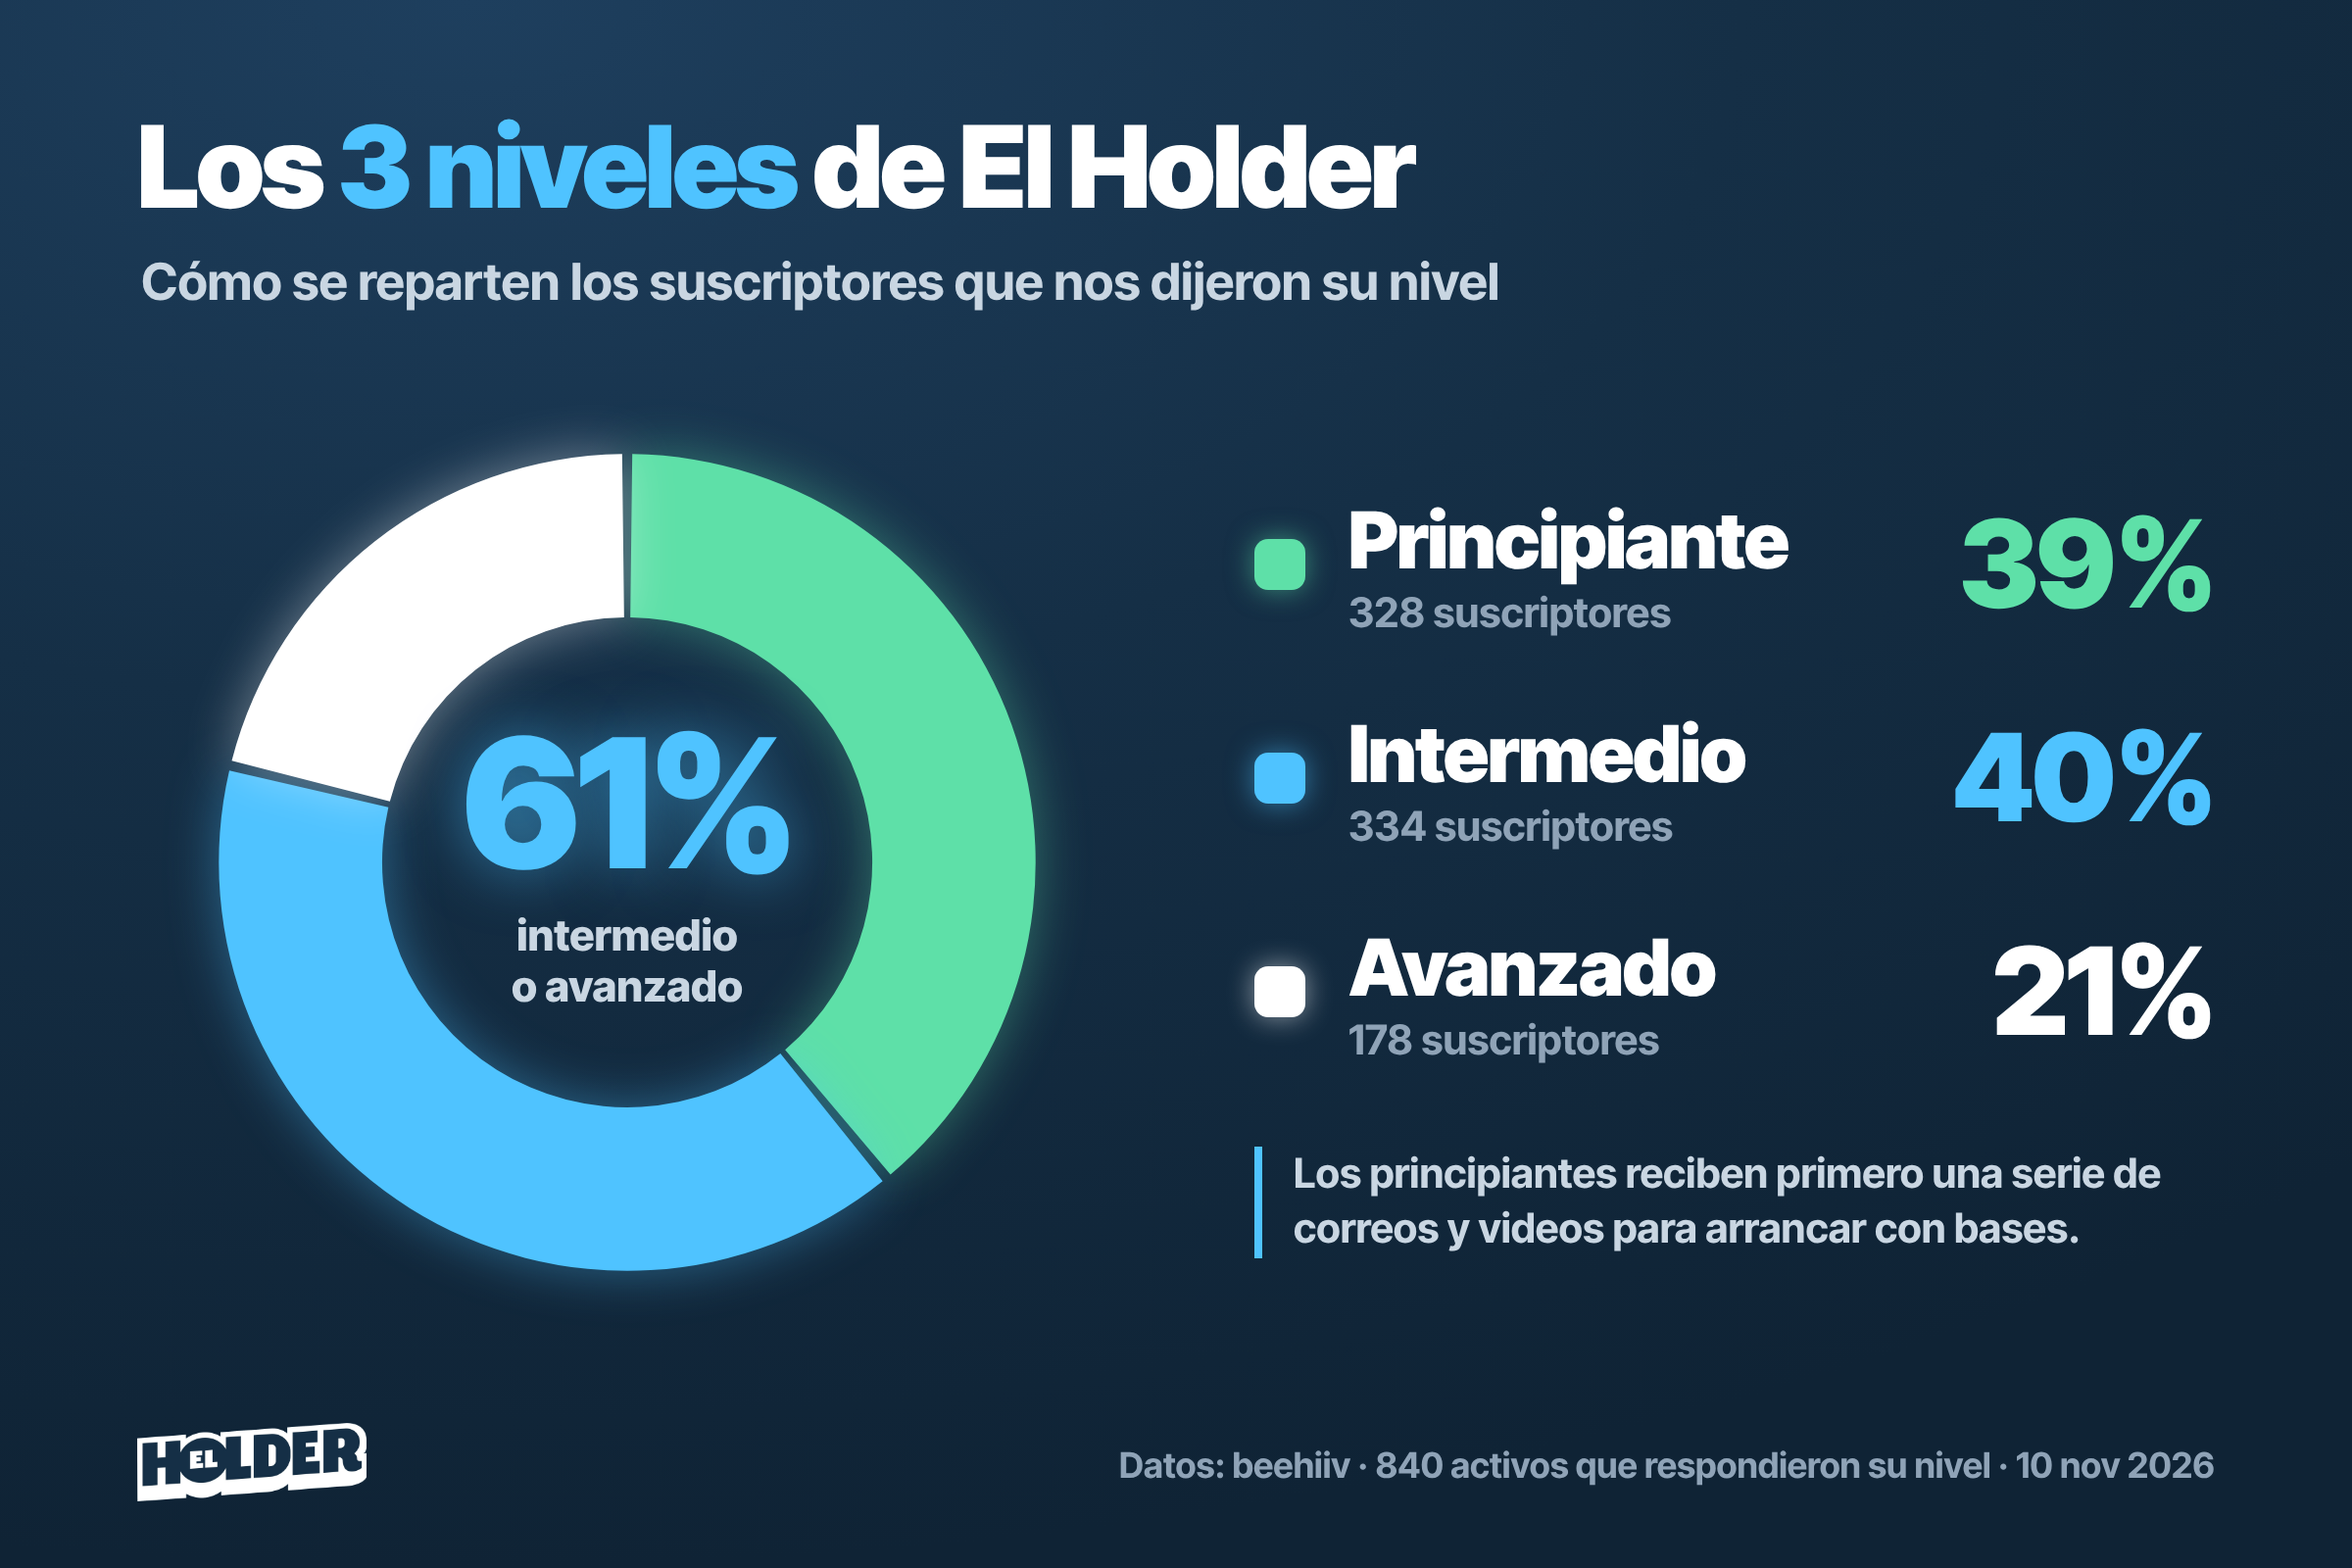
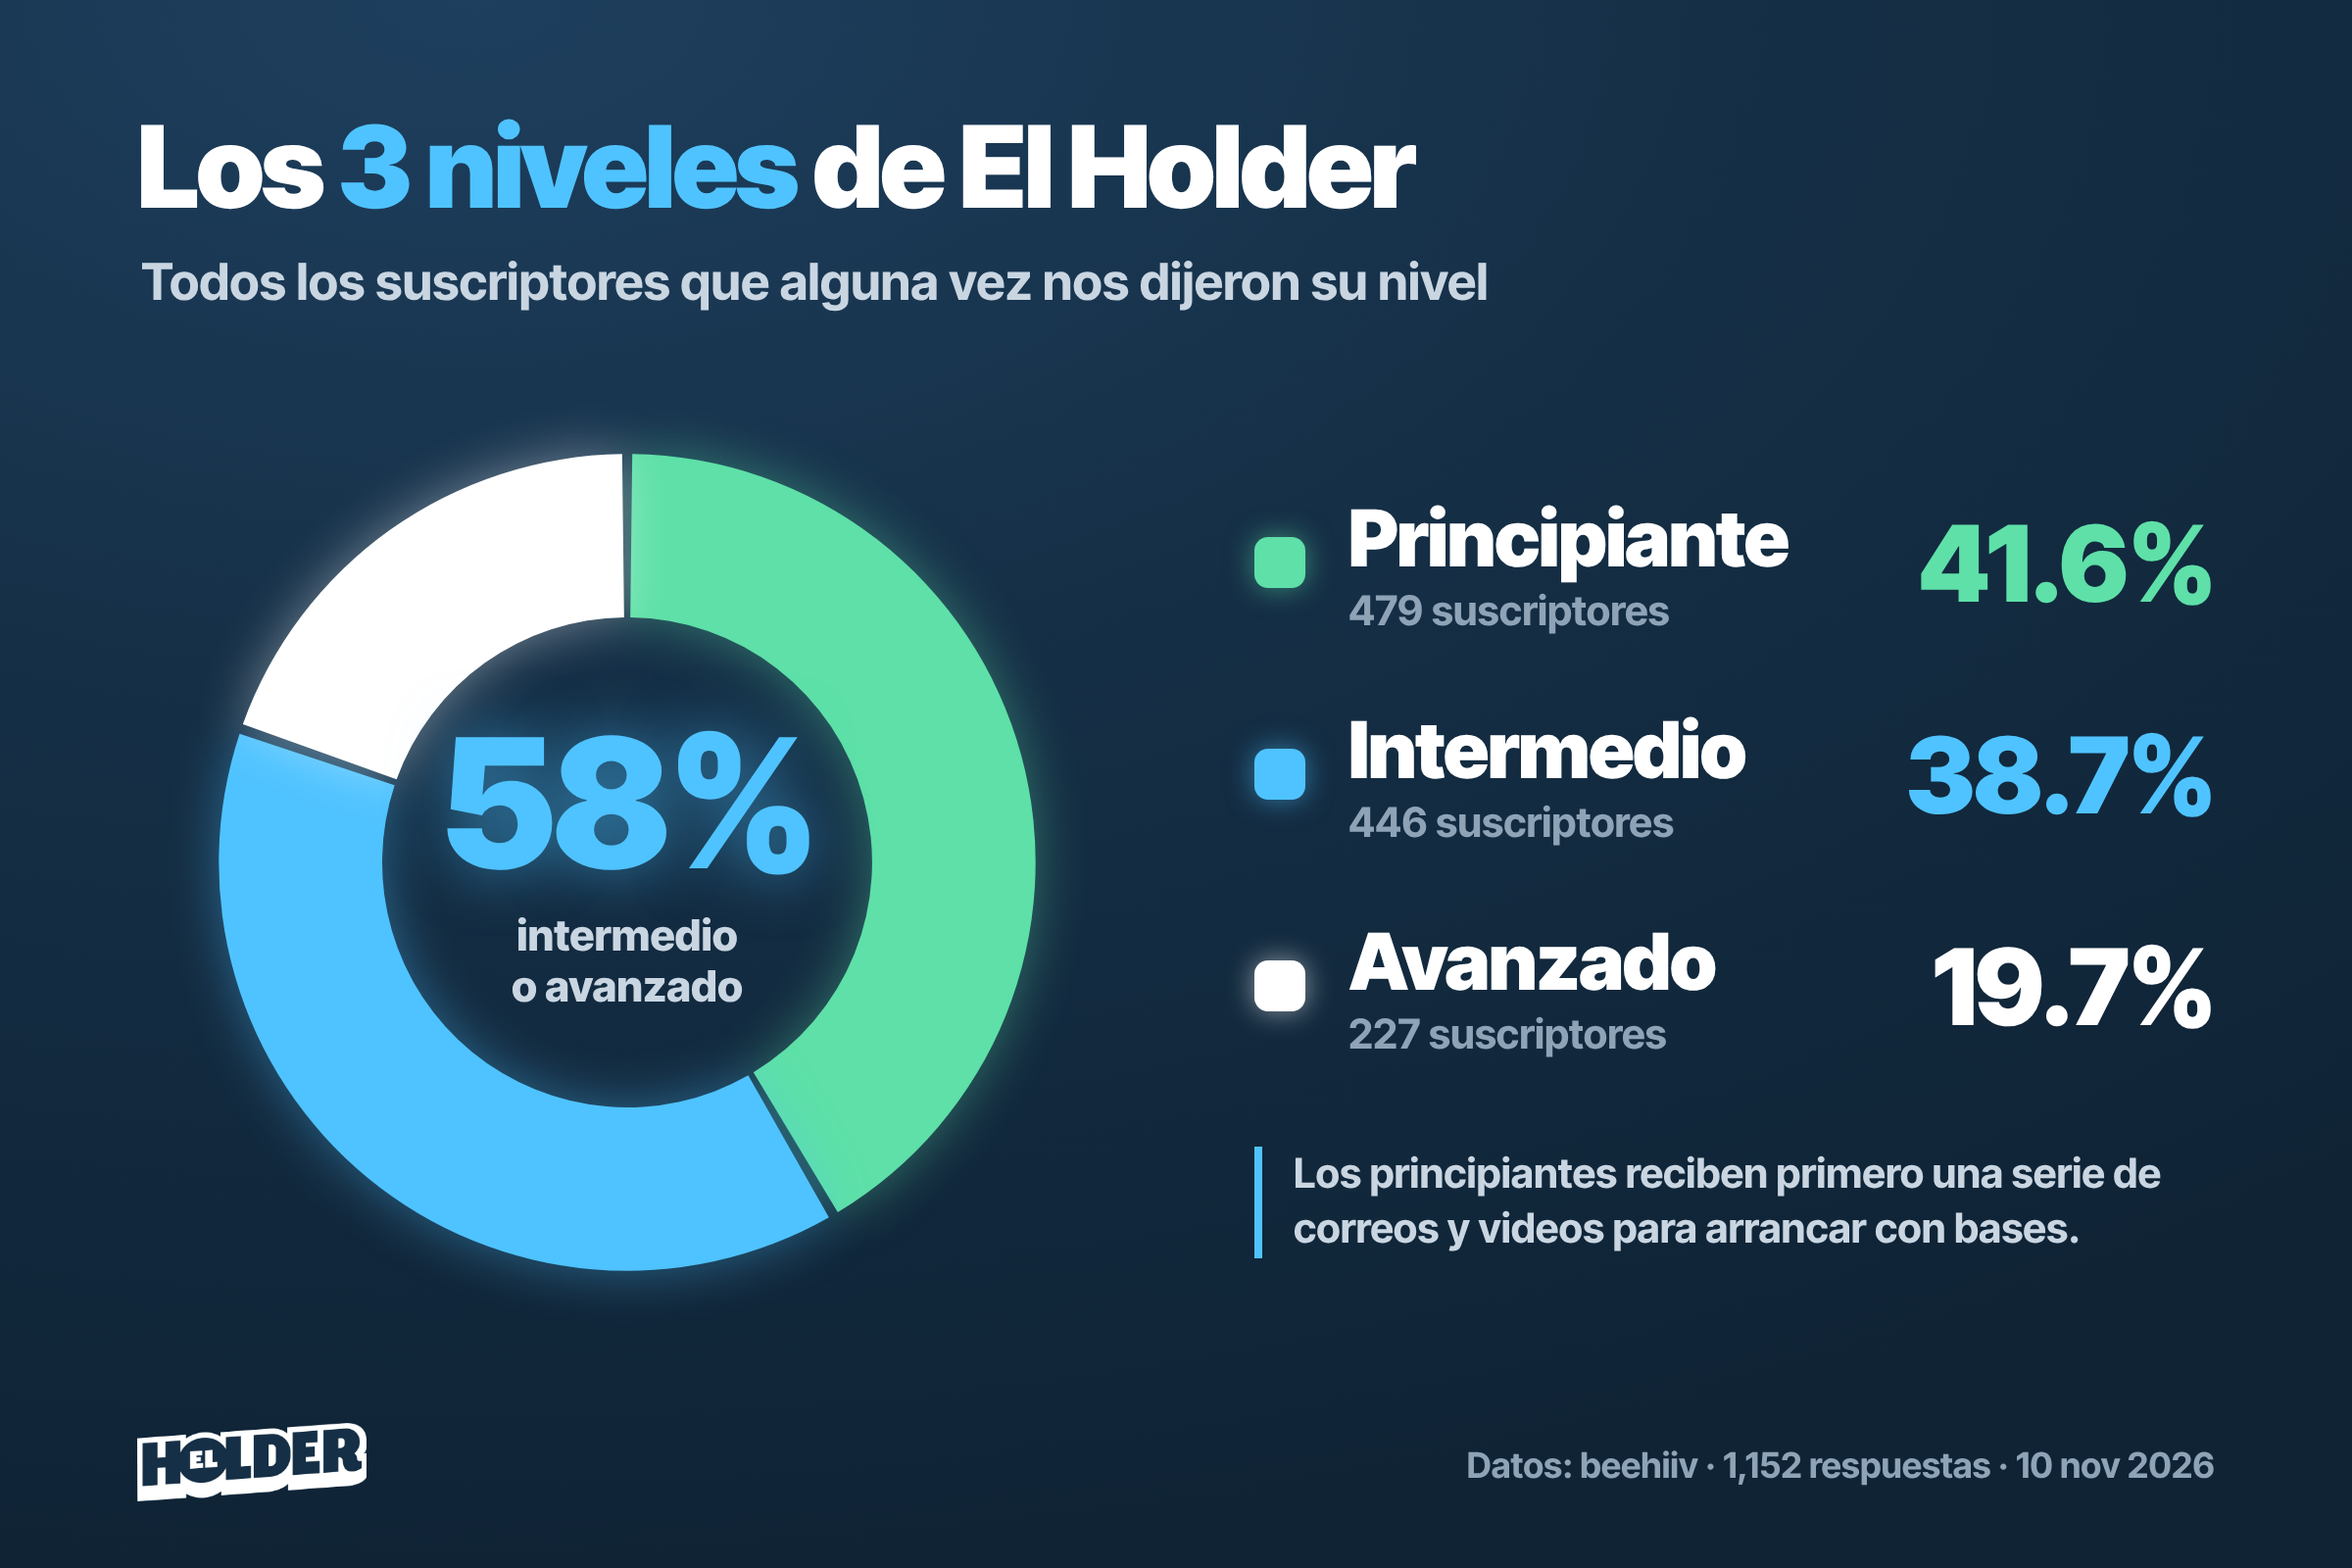
Gráfica niveles: todas las respuestas (1,152)
Claude-Session: https://claude.ai/code/session_01QwPVdY6K4deCfiRsgEEvgq

diff --git a/carruseles/2026-11-10-niveles-suscriptores/src/niveles.html b/carruseles/2026-11-10-niveles-suscriptores/src/niveles.html
@@ -17,17 +17,17 @@ svg{position:absolute;left:70px;top:190px;width:500px;height:500px}
 .row div{flex:1;display:flex;flex-direction:column}
 .row b{font-weight:900;font-size:40px;letter-spacing:-.02em}
 .row span{font-weight:700;font-size:21px;color:#8FA3B7}
-.row em{font-style:normal;font-weight:900;font-size:62px;letter-spacing:-.03em}
+.row em{font-style:normal;font-weight:900;font-size:54px;letter-spacing:-.03em}
 .note{position:absolute;left:640px;right:70px;top:585px;font-weight:700;font-size:21px;color:#C9D6E2;line-height:1.35;border-left:4px solid #4FC3FF;padding-left:16px}
 .logo{position:absolute;left:70px;bottom:34px;height:40px}
 .src{position:absolute;right:70px;bottom:42px;font-weight:700;font-size:18px;color:#8FA3B7}
 </style></head><body>
 <div class="t">Los <span>3 niveles</span> de El Holder</div>
-<div class="st">Cómo se reparten los suscriptores que nos dijeron su nivel</div>
-<svg viewBox="0 0 600 600"><path d="M303.1,50.0 A250,250 0 0 1 461.2,491.1 L396.7,414.7 A150,150 0 0 0 301.9,150.0 Z" fill="#5EE0A8" style="filter:drop-shadow(0 0 16px #5EE0A866)"/><path d="M456.4,495.1 A250,250 0 0 1 56.4,243.8 L153.8,266.3 A150,150 0 0 0 393.8,417.0 Z" fill="#4FC3FF" style="filter:drop-shadow(0 0 16px #4FC3FF66)"/><path d="M57.9,237.7 A250,250 0 0 1 296.9,50.0 L298.1,150.0 A150,150 0 0 0 154.7,262.6 Z" fill="#FFFFFF" style="filter:drop-shadow(0 0 16px #FFFFFF66)"/></svg>
-<div class="c"><b>61%</b><span>intermedio<br>o avanzado</span></div>
-<div class="leg"><div class="row"><i style="background:#5EE0A8;box-shadow:0 0 14px #5EE0A888"></i><div><b>Principiante</b><span>328 suscriptores</span></div><em style="color:#5EE0A8">39%</em></div><div class="row"><i style="background:#4FC3FF;box-shadow:0 0 14px #4FC3FF88"></i><div><b>Intermedio</b><span>334 suscriptores</span></div><em style="color:#4FC3FF">40%</em></div><div class="row"><i style="background:#FFFFFF;box-shadow:0 0 14px #FFFFFF88"></i><div><b>Avanzado</b><span>178 suscriptores</span></div><em style="color:#FFFFFF">21%</em></div></div>
+<div class="st">Todos los suscriptores que alguna vez nos dijeron su nivel</div>
+<svg viewBox="0 0 600 600"><path d="M303.1,50.0 A250,250 0 0 1 428.9,514.2 L377.3,428.5 A150,150 0 0 0 301.9,150.0 Z" fill="#5EE0A8" style="filter:drop-shadow(0 0 16px #5EE0A866)"/><path d="M423.5,517.4 A250,250 0 0 1 62.7,221.3 L157.6,252.8 A150,150 0 0 0 374.1,430.4 Z" fill="#4FC3FF" style="filter:drop-shadow(0 0 16px #4FC3FF66)"/><path d="M64.7,215.4 A250,250 0 0 1 296.9,50.0 L298.1,150.0 A150,150 0 0 0 158.8,249.2 Z" fill="#FFFFFF" style="filter:drop-shadow(0 0 16px #FFFFFF66)"/></svg>
+<div class="c"><b>58%</b><span>intermedio<br>o avanzado</span></div>
+<div class="leg"><div class="row"><i style="background:#5EE0A8;box-shadow:0 0 14px #5EE0A888"></i><div><b>Principiante</b><span>479 suscriptores</span></div><em style="color:#5EE0A8">41.6%</em></div><div class="row"><i style="background:#4FC3FF;box-shadow:0 0 14px #4FC3FF88"></i><div><b>Intermedio</b><span>446 suscriptores</span></div><em style="color:#4FC3FF">38.7%</em></div><div class="row"><i style="background:#FFFFFF;box-shadow:0 0 14px #FFFFFF88"></i><div><b>Avanzado</b><span>227 suscriptores</span></div><em style="color:#FFFFFF">19.7%</em></div></div>
 <div class="note">Los principiantes reciben primero una serie de correos y videos para arrancar con bases.</div>
 <img class="logo" src="../../../brand/logo-horizontal-transparente.png">
-<div class="src">Datos: beehiiv · 840 activos que respondieron su nivel · 10 nov 2026</div>
+<div class="src">Datos: beehiiv · 1,152 respuestas · 10 nov 2026</div>
 </body></html>
